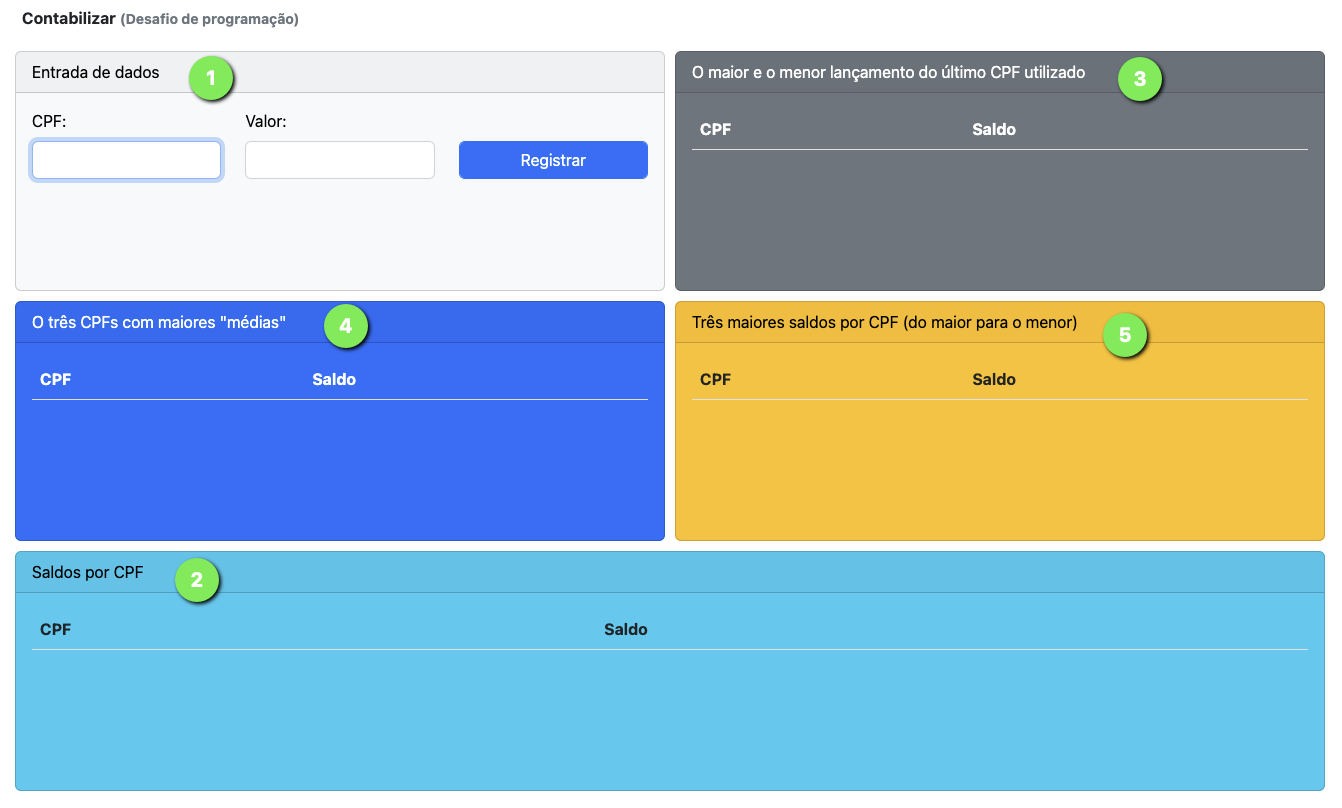
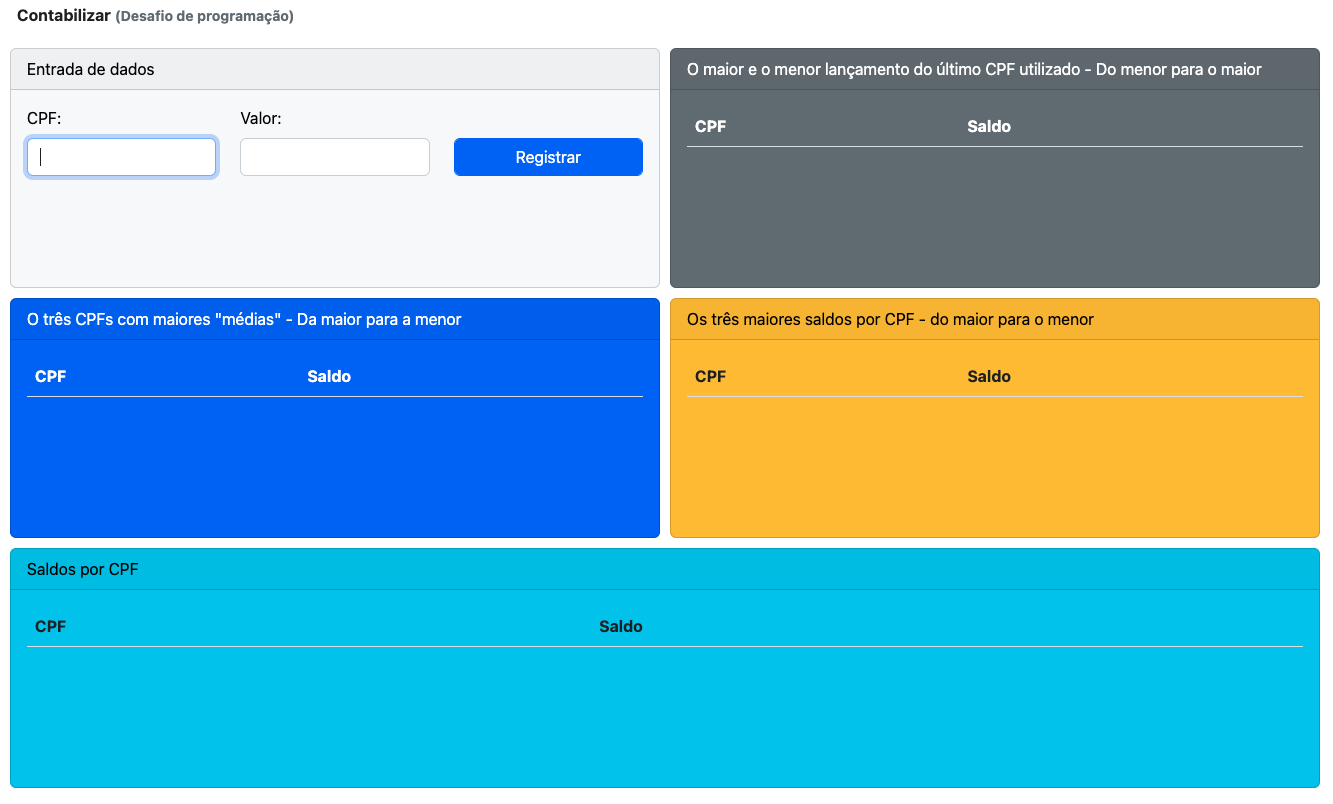
Update README.md

diff --git a/index.html b/index.html
@@ -38,7 +38,7 @@
       </div>
       <div class="col-6" style="min-width: 250px; padding: 5px;">
         <div class="card card text-bg-secondary h-100">
-          <div class="card-header">O maior e o menor lançamento do último CPF utilizado</div>
+          <div class="card-header">O maior e o menor lançamento do último CPF utilizado - Do menor para o maior</div>
           <div class="card-body">
             <table class="table" aria-describedby="ultimosLancamentos" style="color: white">
               <thead>
@@ -56,7 +56,7 @@
     <div class="row" style="min-height: 250px;">
       <div class="col-6" style="min-width: 250px; padding: 5px;">
         <div class="card card text-bg-primary h-100">
-          <div class="card-header">O três CPFs com maiores "médias"</div>
+          <div class="card-header">O três CPFs com maiores "médias" - Da maior para a menor</div>
           <div class="card-body">
             <table class="table" aria-describedby="maioresMedias" style="color: white">
               <thead>
@@ -72,7 +72,7 @@
       </div>
       <div class="col-6" style="min-width: 250px; padding: 5px;">
         <div class="card text-bg-warning h-100">
-          <div class="card-header">Três maiores saldos por CPF (do maior para o menor)</div>
+          <div class="card-header">Os três maiores saldos por CPF - do maior para o menor</div>
           <div class="card-body">
             <table class="table white" aria-describedby="maioresSaldos">
               <thead>

diff --git a/README.md b/README.md
@@ -111,7 +111,7 @@ CPF       |Valor     |
 
 #### Saídas esperadas:
 
-2. Painel Azul Claro (Saldos por CPF - Na sequência em que os CPFs foram digitados)
+##### Painel Azul Claro (Saldos por CPF - Na sequência em que os CPFs foram digitados):
 
 CPF       |Valor     |
 ------------|------------|
@@ -120,14 +120,14 @@ CPF       |Valor     |
 74914372061 | R$ 246,22
 93975495022 | R$ 10.489,99
 
-3. Painel Cinza (O maior e o menor lançamento do último CPF - Do menor para o maior)
+##### Painel Cinza (O maior e o menor lançamento do último CPF - Do menor para o maior):
 
 CPF       |Valor     |
 ------------|------------|
 93975495022 | R$ 546,78
 93975495022 | R$ 8.000,21
 
-4. Painel Azul Escuro (Os três CPFs com maiores "médias" - Da maior para a menor)
+##### Painel Azul Escuro (Os três CPFs com maiores "médias" - Da maior para a menor):
 
 CPF       |Valor     |
 ------------|------------|
@@ -135,7 +135,7 @@ CPF       |Valor     |
 05987701007 | R$ 478,23
 74914372061 | R$ 82,07
 
-5. Painel Amarelo (Três maiores saldos por CPF - do maior para o menor)
+##### Painel Amarelo (Três maiores saldos por CPF - do maior para o menor):
 
 CPF       |Valor     |
 ------------|------------|
